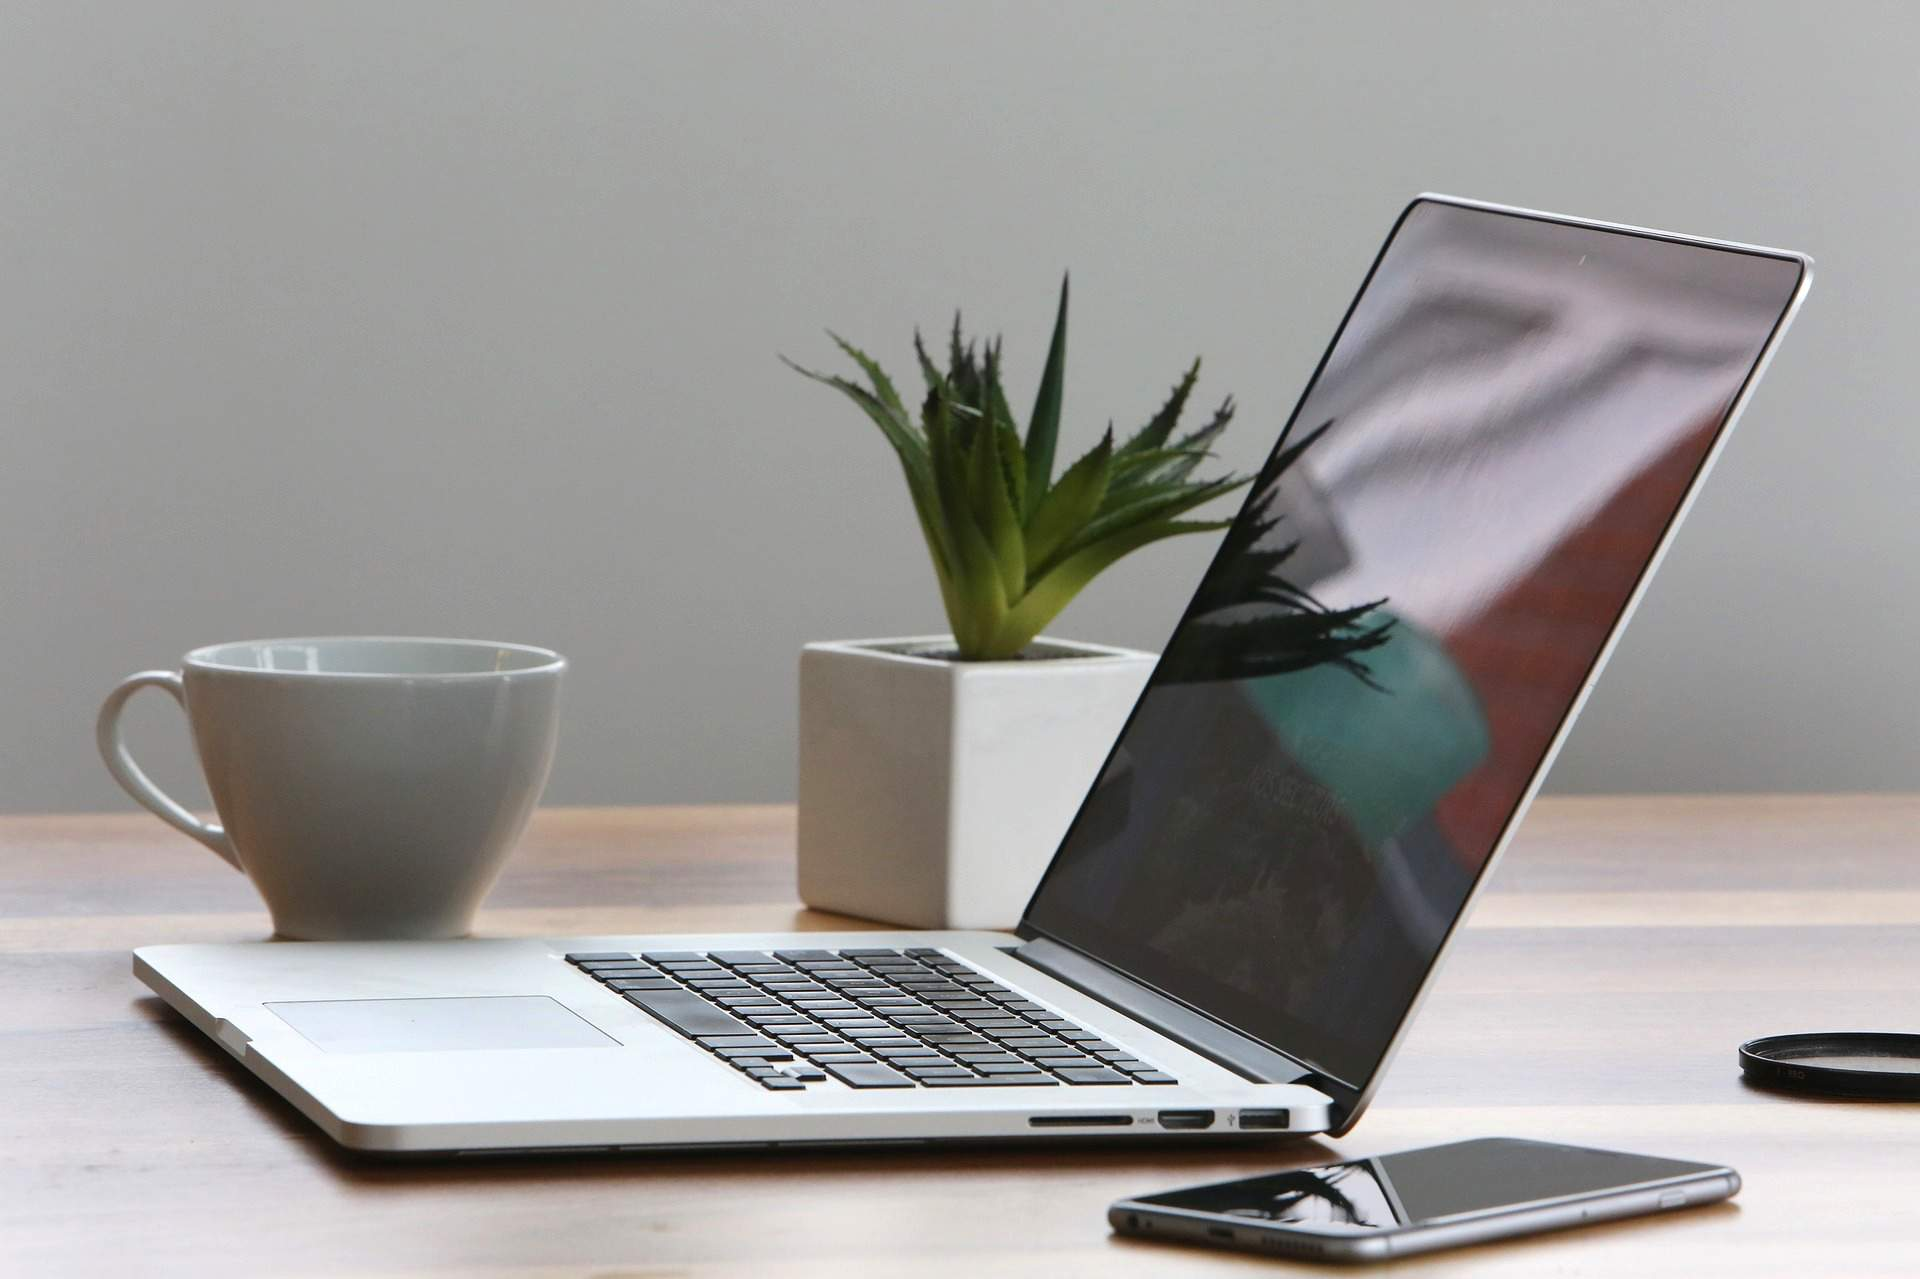
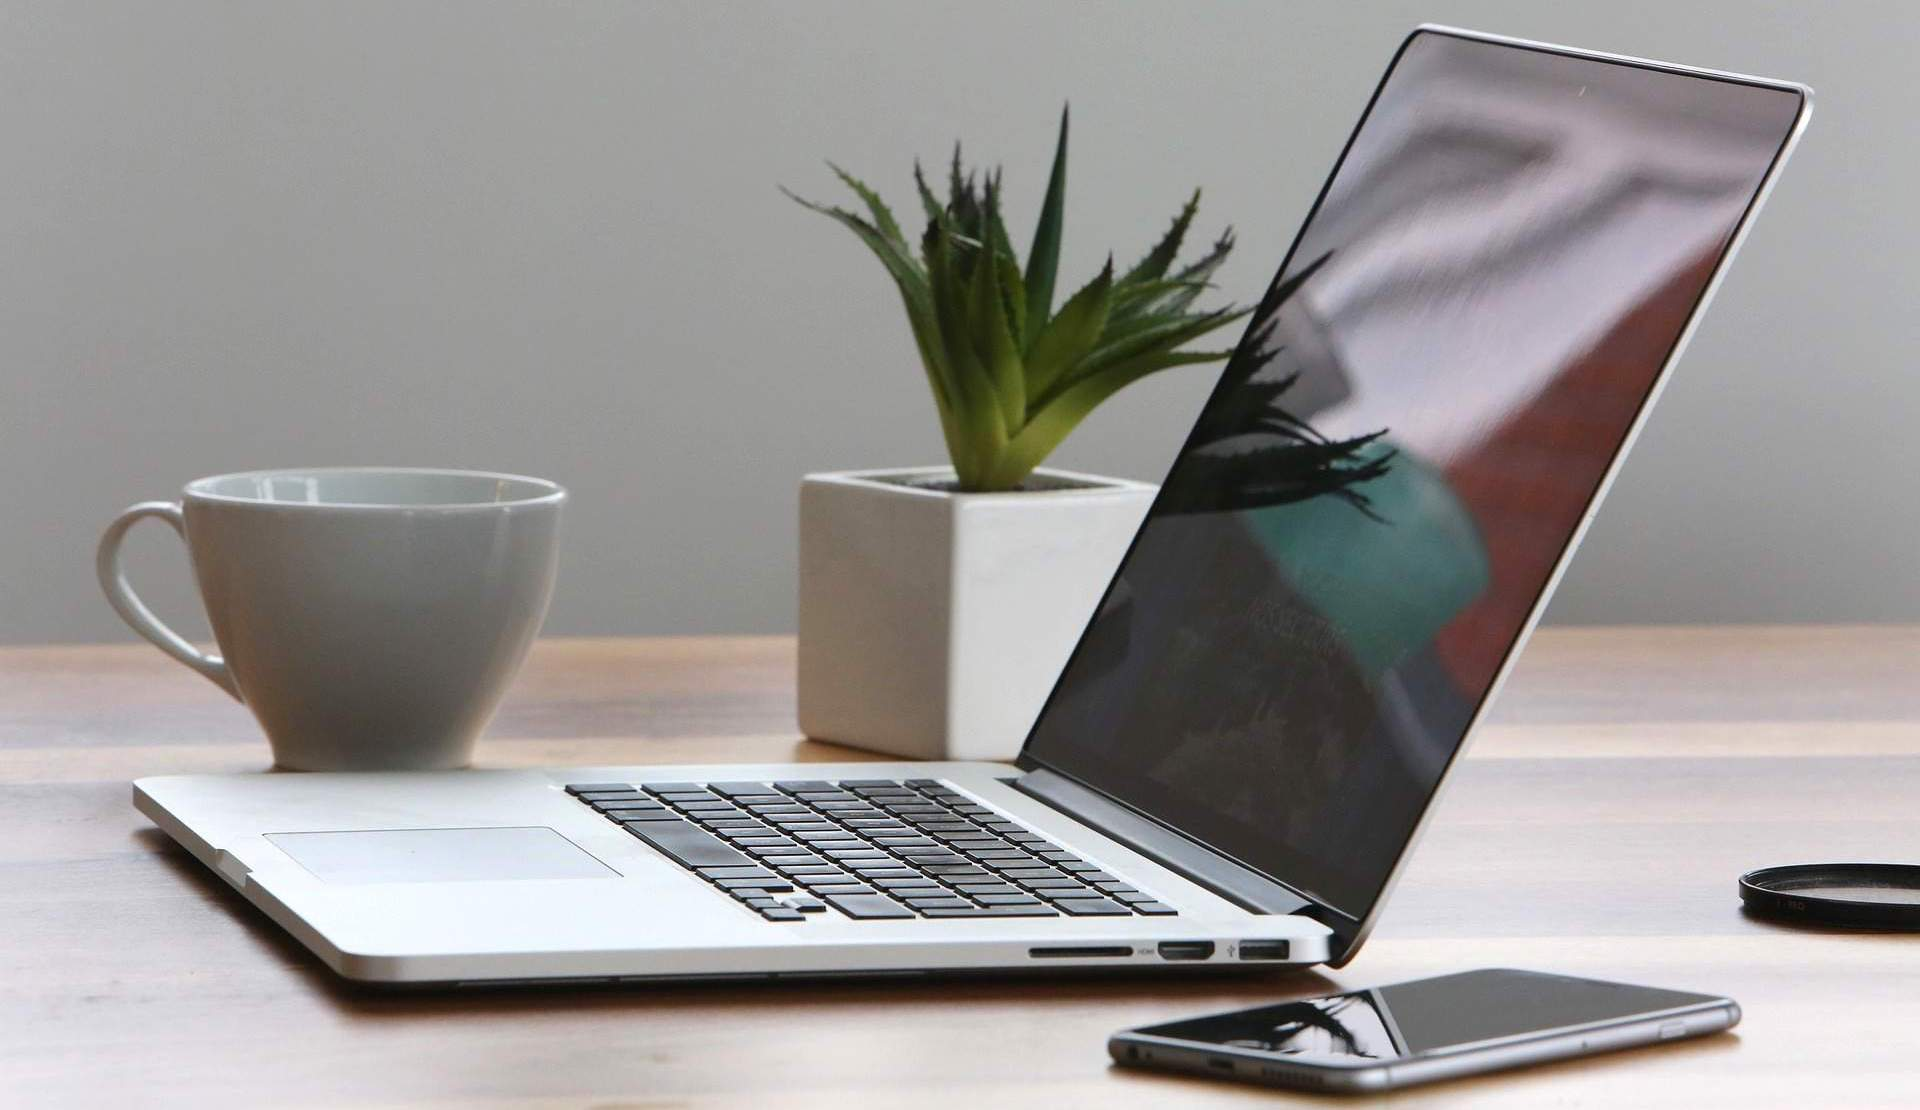
trying out new design

diff --git a/css/style.css b/css/style.css
@@ -36,7 +36,7 @@ body {
 
     /* Create the parallax scrolling effect */
     background-attachment: fixed;
-    background-position: 50% 90%;
+    background-position: 50% 100%;
     background-repeat: no-repeat;
     background-size: cover;
     
@@ -44,8 +44,7 @@ body {
 
   .parallax {
     /* The image used */
-    background-image: url('../pictures/mac_bw.jpg');
-
+    background-image: url('../pictures/mac2.jpg');
     /* Full height */
     width: 100%;
     height: 100%; 
@@ -133,8 +132,7 @@ color: #fff !important;
 }
 
  #myCarousel.carousel.slide{
-  opacity: 0.98;
-  width: 100%;
+  width: 85%;
   display: block;
   text-align: center;
   margin: 0 auto;
@@ -142,11 +140,8 @@ color: #fff !important;
 }
 
 #myCarousel.carousel:hover{
-  
-  width: 85%;
-  
+  width: 95%;
 }
-
 
 
 .row.display-flex {
@@ -173,6 +168,7 @@ color: #fff !important;
   display:block;
   margin: 0 auto;
 }
+
 
   .affix ~ .container-fluid {
      position: relative;
@@ -366,7 +362,7 @@ color: #fff !important;
 
   #scroll a{
   position: relative;
-  top: -12px;
+  top: 12px;
   display: block; 
   margin-left: auto;
   margin-right: auto;
@@ -418,7 +414,7 @@ color: #fff !important;
     opacity: 1;
   }
   100% {
-    -webkit-transform: rotate(-45deg) translate(-20px, 20px);
+    -webkit-transform: rotate(-45deg) translate(-50px, 50px);
     opacity: 0;
   }
 }
@@ -428,8 +424,8 @@ color: #fff !important;
     padding-top:10px;
     
     color: #fff; 
-    height:200px;
-    background-image: url('../pictures/concert.jpg');
+    height:300px;
+    background-image: url('../pictures/city.jpg');
     width: 100%;
     /* Create the parallax scrolling effect */
     background-attachment: fixed;
@@ -551,6 +547,9 @@ color: #fff !important;
     }
 
    @media only screen and (max-device-width : 768px) { 
+  #myCarousel.carousel.slide {
+    width: 100%;
+  }
   #home {
     margin-left: 44.5%;
     position: fixed;
@@ -641,17 +640,7 @@ color: #fff !important;
     background-attachment: scroll;
   }
 
-  #section21{
-    height: 150px !important;
-  }
-
-  #section31 {
-    height: 150px !important;
-  }
-
-  #section411 {
-    height: 150px !important;
-  }
+ 
 
   #section5 {
     background-attachment: scroll;

diff --git a/home.html b/home.html
@@ -189,8 +189,11 @@ var trackOutboundLink = function(url) {
 
 </div>
 
-<div id = "section21" style="height: 250px">
-  <div class="parallax2"></div>
+<div id = "section21" style="height: 400px">
+  <div class="parallax2">
+    <h5 style="color: white;margin: 0; font-family: 'Alegreya Sans', sans-serif; text-align: center; padding-top: 170px; font-size: 60px">ABOUT ME</h5>
+  </div>
+  
   </div>
 
     <div id="section2" class="container-fluid">
@@ -227,8 +230,8 @@ var trackOutboundLink = function(url) {
 
 
 
-<div id="section31" style="height: 300px">
-  <div class="parallax"></div>
+<div id="section31" style="height: 600px">
+  <div class="parallax"><h5 class="work" style="color: white;margin: 0; font-family: 'Alegreya Sans', sans-serif; text-align: center; padding-top: 270px; font-size: 60px">RECENT PROJECTS</h5></div>
   </div>
 
 
@@ -367,8 +370,8 @@ var trackOutboundLink = function(url) {
       </div>
     </div>
         
-    <div id="section411" style="height: 300px">
-      <div class ="parallax3"></div>
+    <div id="section411" style="height: 600px">
+      <div class ="parallax3"><h5 style="color: white;margin: 0; font-family: 'Alegreya Sans', sans-serif; text-align: center; padding-top: 270px; font-size: 60px">LINKS AND ARTICLES</h5></div>
 
     </div>
 
